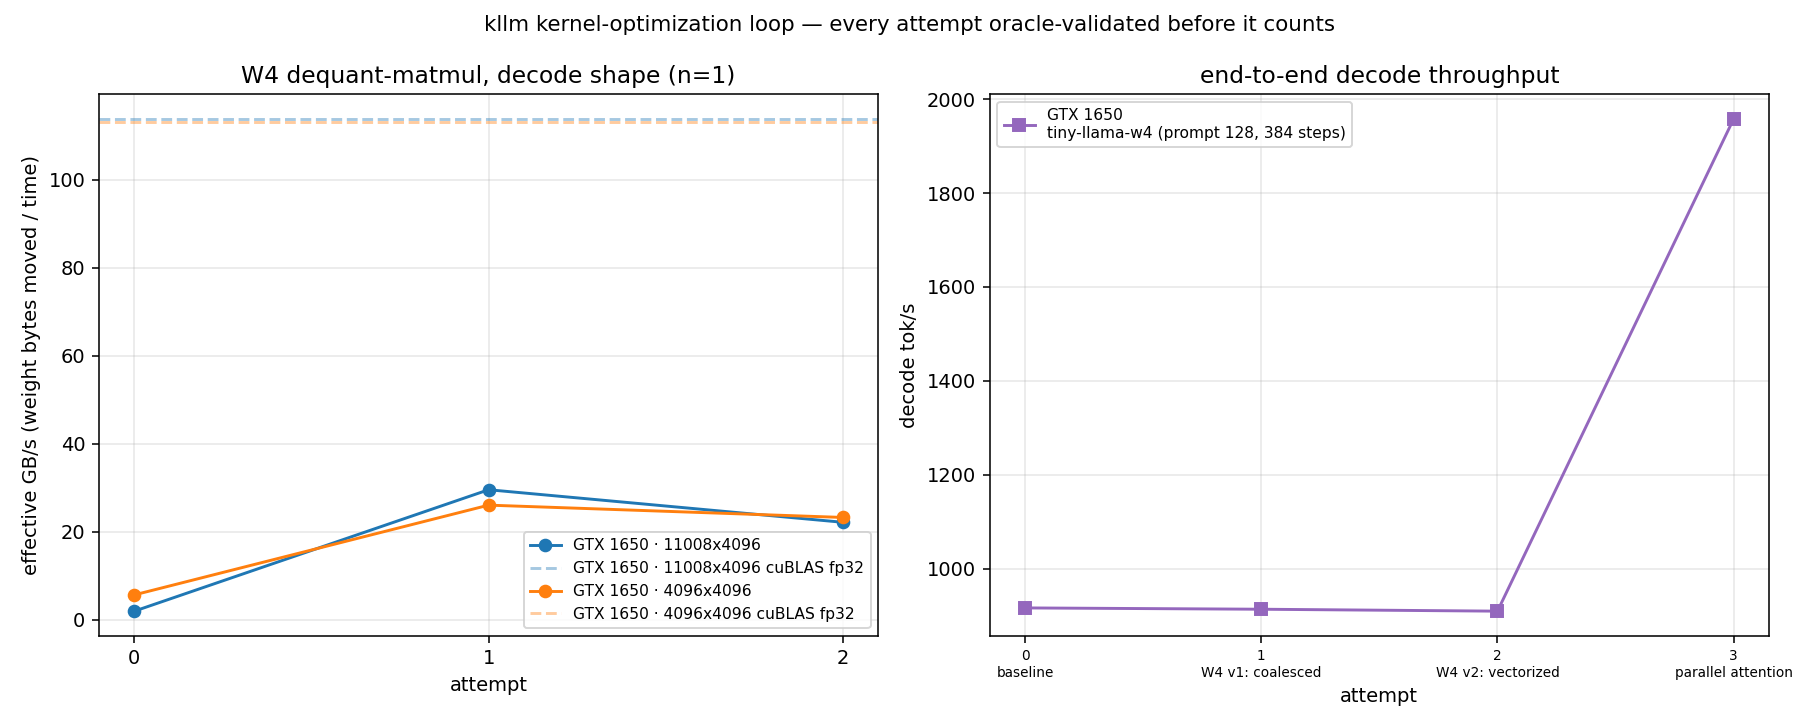
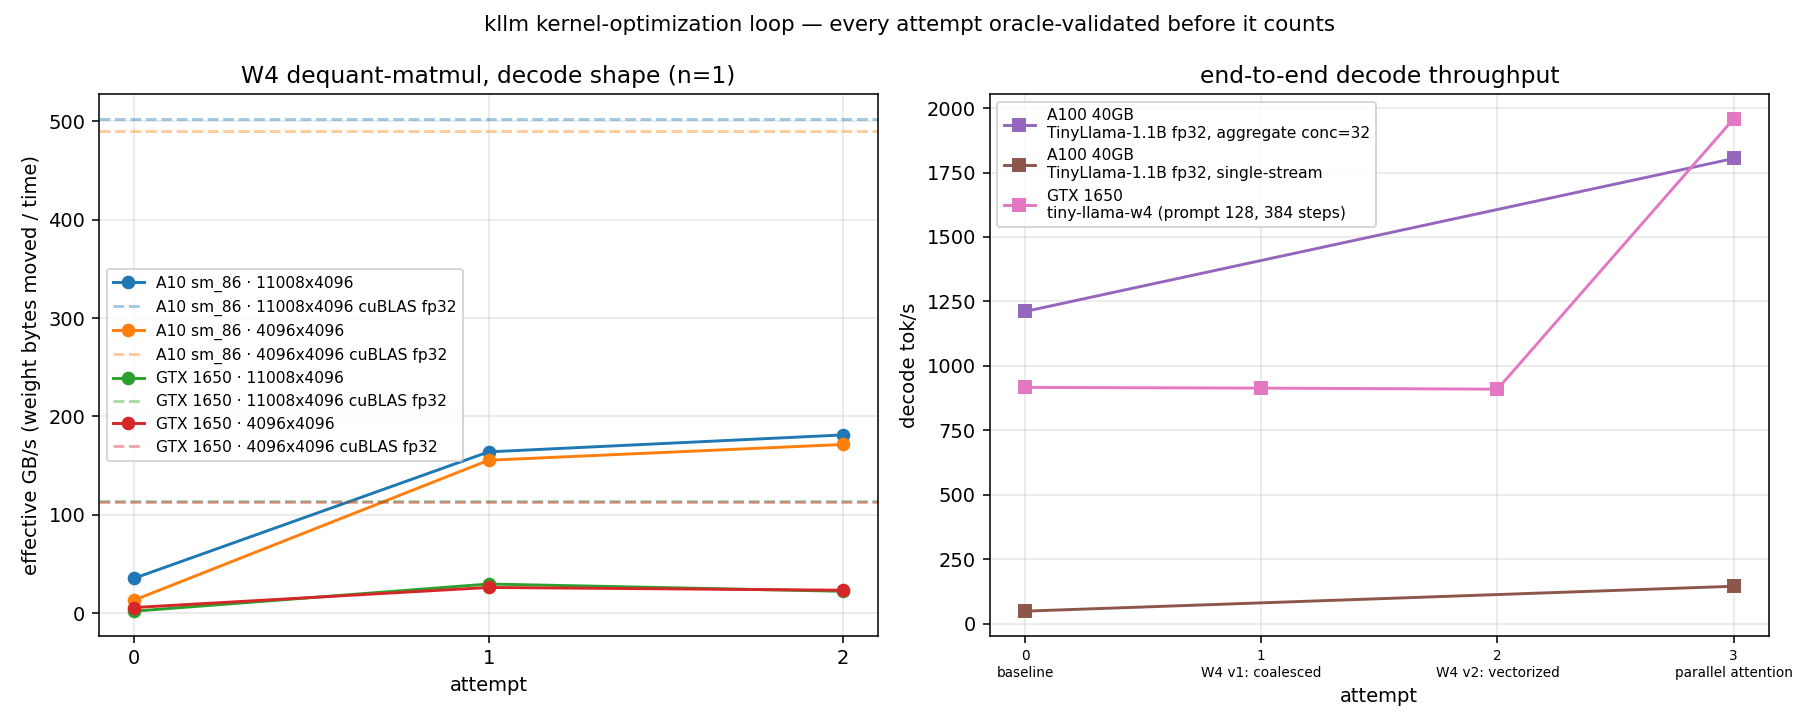
Kernel loop: Ampere results — v2 wins on sm_86, 3.0x single-stream on A100
- A10 wbench: W4 v2 vectorized 171-181 GB/s (2.64-2.71x vs cuBLAS fp32);
  v1/v2 flip between Turing and Ampere, logged per-GPU
- A100 TinyLlama-1.1B: 48.3 -> 144.9 tok/s single-stream (3.0x, parallel
  attention), aggregate 1211 -> 1804 tok/s @ conc 32, 16/16 tokens still
  match HF; full suite green on sm_86 with new kernel defaults
- kernel_attempts.json + kernel_progress.png updated with both GPUs

diff --git a/README.md b/README.md
@@ -39,10 +39,24 @@ directly.
 - **Portable + real-Ampere gated.** Windows (syscall loader, sm_75) for the
   inner loop; Linux (cgo loader, sm_86) verified on cloud A10G via Modal.
 
-Kernels are currently **naive-but-correct on purpose** — the whole system is
-green, and kernel optimization (W4 matmul, paged FlashAttention, fused
-grouped-GEMM, CUDA graphs) is the deliberate endgame, each with a measured
-baseline and a correctness net that catches any regression.
+- **Real models on real GPUs** (single A100 via Modal, all matching
+  HuggingFace token-for-token): **TinyLlama-1.1B**, **Sarvam-1 2B**, and
+  **Gemma 3 1B** — the latter needed genuine architecture work (qk-norm,
+  sandwich norms, GELU-tanh, sliding-window attention with dual RoPE theta),
+  all validated by the per-layer oracle.
+
+**Kernel optimization runs as a measured loop** — change one kernel, the
+full oracle suite must stay green, benchmark, log, plot:
+
+![kernel optimization progress](docs/assets/kernel_progress.png)
+
+Attempt 1 (coalesced W4 matmul) flips the W4 kernel from 0.13–0.37× of
+cuBLAS fp32 to **1.7–2.0×**; attempt 3 (block-parallel paged attention)
+doubles end-to-end decode at seq≈512. Attempt 2 (vectorized loads) measured
+*slower* on Turing and is logged as the honest regression it is. Data:
+[bench/kernel_attempts.json](bench/kernel_attempts.json); remaining levers
+(shared-memory X staging, multi-row blocks, CUDA graphs) in the
+[journal](docs/JOURNAL.md).
 
 ## Try it in your browser (no GPU needed locally)
 

diff --git a/docs/JOURNAL.md b/docs/JOURNAL.md
@@ -420,6 +420,28 @@ Readings:
   achievable bandwidth (cuBLAS reaches ~114 GB/s) — next levers are
   shared-memory X staging, multiple rows per block, and float4 X loads.
 
+**Ampere results (A10 sm_86 wbench; A100 model-level; full suite green on
+both):**
+
+| kernel | 4096x4096 (A10) | 11008x4096 (A10) |
+|--------|----------------:|-----------------:|
+| fp32 cuBLAS | 490 GB/s | 502 GB/s |
+| w4 naive | 13 GB/s (0.20x) | 35 GB/s (0.53x) |
+| w4 v1 coalesced | 155 GB/s (2.39x) | 164 GB/s (2.46x) |
+| w4 v2 vectorized | **171 GB/s (2.64x)** | **181 GB/s (2.71x)** |
+
+- **v2 wins on Ampere** (2.64–2.71x vs fp32) after losing on Turing — the
+  arch-dependent flip is exactly why versions stay selectable and measured
+  per GPU rather than assumed.
+- **Model-level, A100, TinyLlama-1.1B fp32** (attention kernel is what
+  applies to an fp32 model): single-stream **48.3 → 144.9 tok/s (3.0x)**,
+  ITL 20.7 → 6.9 ms (effective weight bandwidth ~213 → ~638 GB/s);
+  aggregate at conc 32: 1211 → **1804 tok/s**; correctness still 16/16 vs HF.
+- Single-stream 145 tok/s for a 1.1B fp32 now clears the hosted
+  Gemma-3-27B provider band (15–67 tok/s) instead of merely touching it —
+  and the remaining fp32→W4 lever (4x fewer weight bytes at 2.6x higher
+  kernel efficiency) is measured and waiting.
+
 ## External reference — Gemma inference speed
 
 Collected to calibrate what "fast" means for a 30B-class model, so the